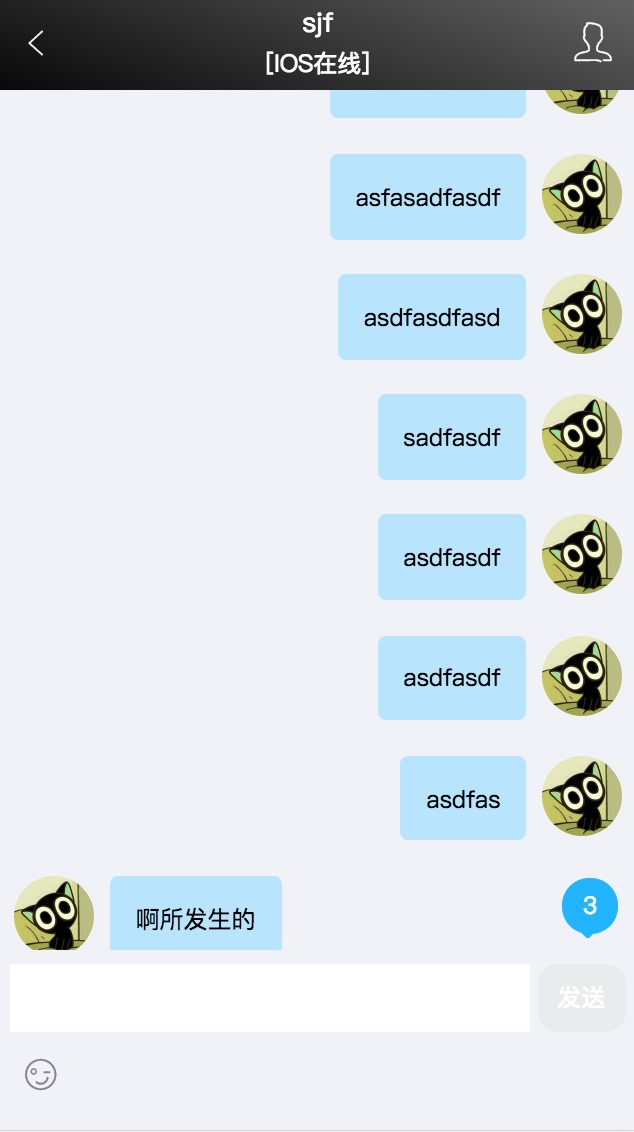
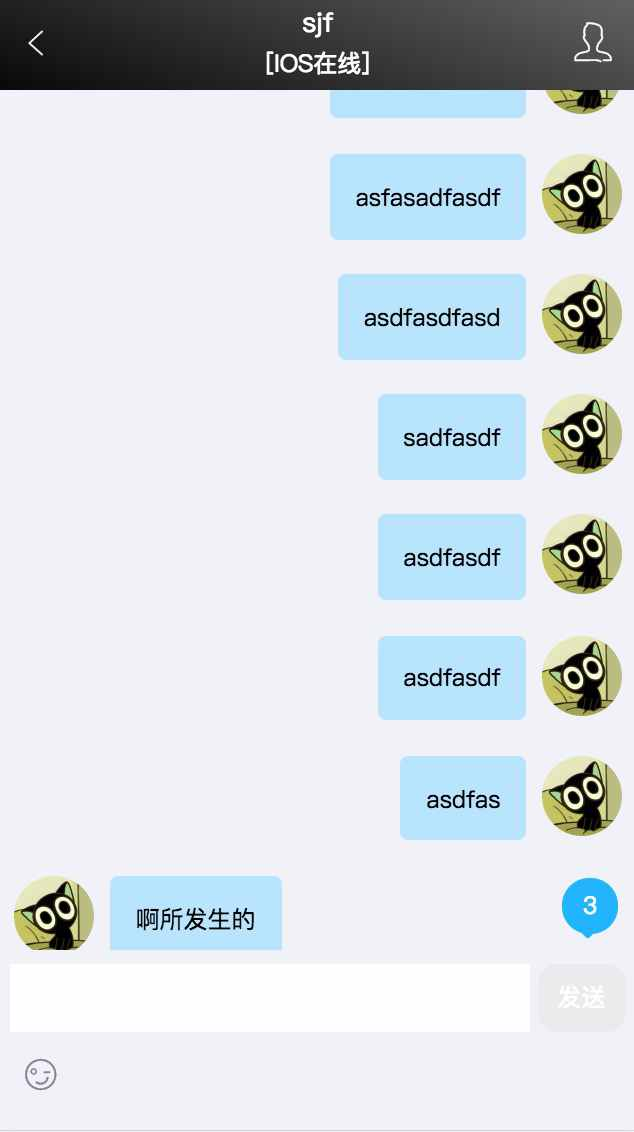
截图修改

diff --git a/src/components/message-input-bar.vue b/src/components/message-input-bar.vue
@@ -5,7 +5,8 @@
         input.message-send__inner-input( v-model="message", contenteditable, ref="input")
       button.q-btn.q-btn_primary.message-send__btn( 
         :class="{ 'q-btn_disable': isDisable }",
-        @touchstart.stop="sendMessage"
+        @touchstart.stop="sendMessage",
+        @click="sendMessage",
 
       ) 发送
     div.messsage-tools 
@@ -39,6 +40,7 @@ export default {
     ...mapActions('user', ['sendFile', 'sendTextMessage']),
 
     async sendMessage(e) {
+      // 阻止默认，，移动端下发送的时候不关闭键盘
       e.preventDefault();
       if(this.isDisable) return;
       let message = this.message;
@@ -51,7 +53,6 @@ export default {
           this.$emit('send', 'text');
         }
       });
-      // this.$refs['input'].focus();
       
     },
     async sendFileHandle(e) {

diff --git a/README.md b/README.md
@@ -59,7 +59,15 @@ npm run dev
 ### 登录页面
 ![](https://github.com/Jfs007/vue-wechat/blob/master/screenshots/login.jpg)
 ### 聊天
-![](https://github.com/Jfs007/vue-wechat/blob/master/screenshots/chat.png)
+![](https://github.com/Jfs007/vue-wechat/blob/master/screenshots/chat.jpg)
+![](https://github.com/Jfs007/vue-wechat/blob/master/screenshots/chat1.jpg)
+![](https://github.com/Jfs007/vue-wechat/blob/master/screenshots/chat2.jpg)
+![](https://github.com/Jfs007/vue-wechat/blob/master/screenshots/chat3.jpg)
+### 好友搜索
+![](https://github.com/Jfs007/vue-wechat/blob/master/screenshots/search.jpg)
+### 联系人
+![](https://github.com/Jfs007/vue-wechat/blob/master/screenshots/linkman.jpg)
+
 
 
 
